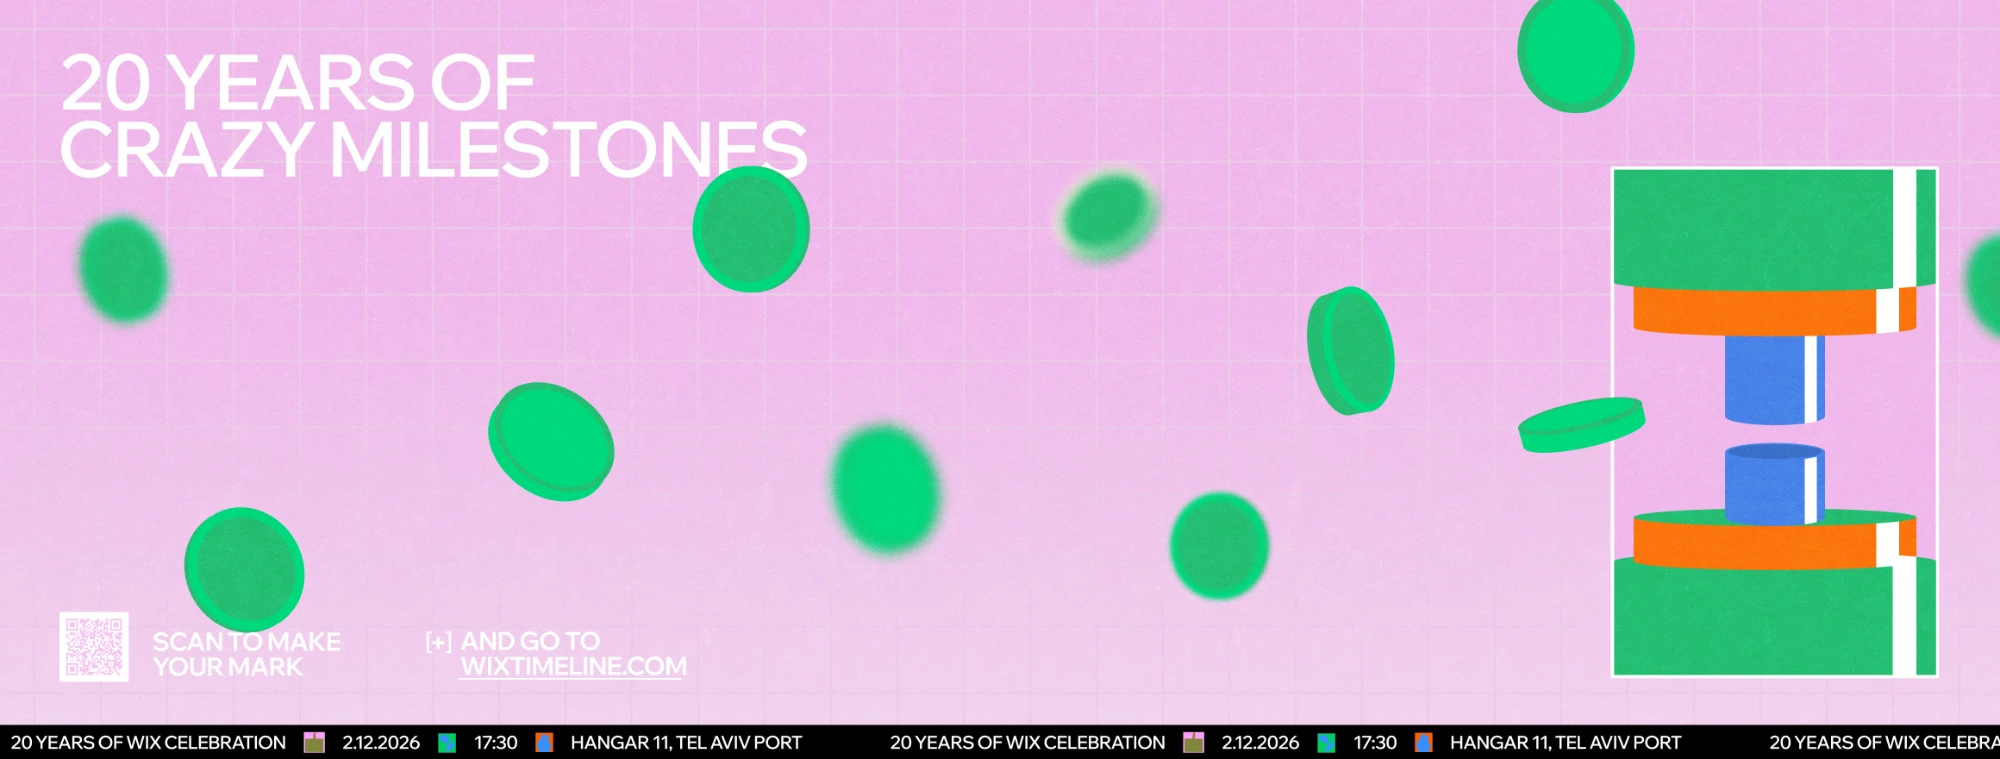
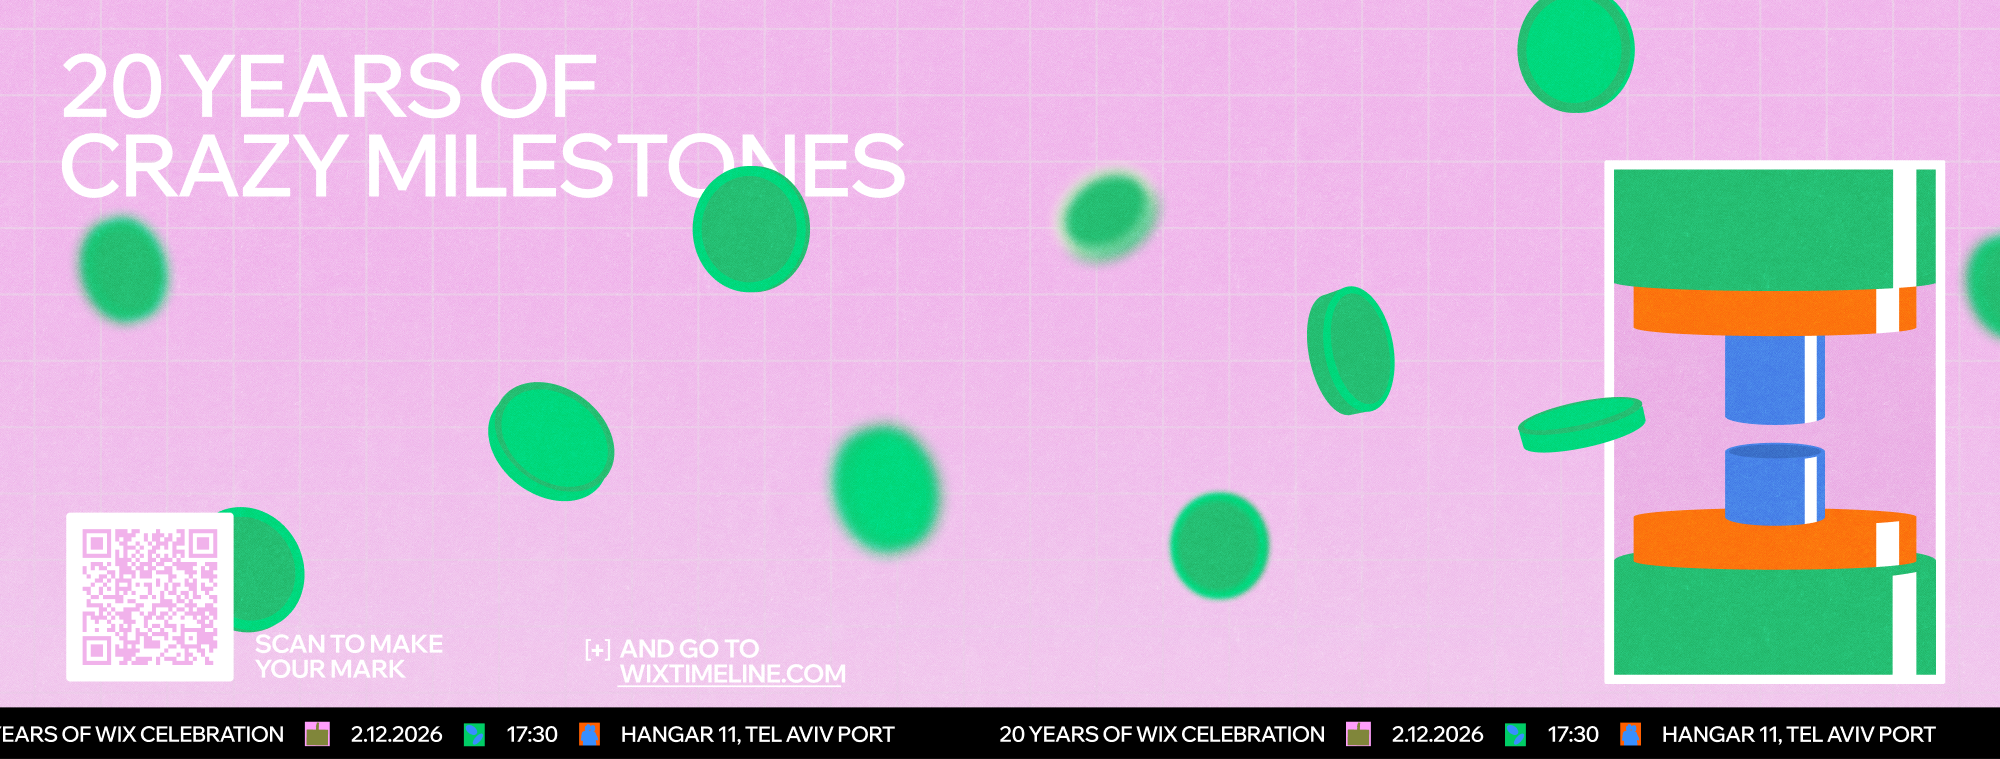
screen: match 25.11 Figma (title, big QR, frame, strip, grid)

diff --git a/screen/office.html b/screen/office.html
@@ -10,16 +10,16 @@
   #screen>*{position:absolute}
   iframe{border:0;display:block;background:transparent}
   .t{text-transform:uppercase;white-space:nowrap}
-  #title{font-weight:500;letter-spacing:-0.055em}
-  #go{font-weight:500;letter-spacing:-0.01em}
-  #go b{font-weight:500;position:absolute;letter-spacing:-0.05em}
+  #title{font-weight:600;letter-spacing:-0.0302em}
+  #go{font-weight:700;letter-spacing:-0.03em}
+  #go b{font-weight:500;position:absolute;letter-spacing:-0.03em}
   #go u{text-decoration-thickness:.07em;text-underline-offset:.12em}
   #qr{background:#fff;box-sizing:border-box}
   #qr .q{display:block;width:100%;height:100%;background:var(--qrc,#b84fae);-webkit-mask:url(upload-qr.svg) center/100% 100% no-repeat;mask:url(upload-qr.svg) center/100% 100% no-repeat}
-  #scan{font-weight:500;opacity:.92;letter-spacing:-0.01em}
+  #scan{font-weight:700;letter-spacing:-0.03em}
   #strip{background:#000;overflow:hidden;left:0}
   #strip .run{position:absolute;left:0;top:0;height:100%;display:flex;align-items:center;white-space:nowrap;will-change:transform;animation:run var(--dur) linear infinite}
-  #strip span{font-weight:600;text-transform:uppercase;letter-spacing:-0.01em}
+  #strip span{font-weight:600;text-transform:uppercase;letter-spacing:-0.03em}
   #strip i{display:inline-flex;gap:.35em;align-items:center}
   #strip svg{display:block}
   @keyframes run{from{transform:translateX(0)}to{transform:translateX(-50%)}}
@@ -63,9 +63,10 @@ const $=id=>document.getElementById(id), px=v=>v*s+'px';
 const scr=$('screen'); scr.style.width=W+'px'; scr.style.height=H+'px';
 const bg=$('bg'); bg.width=W; bg.height=H; drawBackdrop(bg.getContext('2d'),W,H);
 // the frame's faint grid (?grid = cell in reference px, ?gridop = strength)
-{ const x=bg.getContext('2d'), g=(+(Q.get('grid')||52))*s; x.strokeStyle=`rgba(255,255,255,${+(Q.get('gridop')??0.22)})`; x.lineWidth=Math.max(1,1.2*s); x.beginPath();
-  for(let gx=g*0.6; gx<W; gx+=g){ const v=Math.round(gx)+0.5; x.moveTo(v,0); x.lineTo(v,H); }
-  for(let gy=g*0.35; gy<H; gy+=g){ const v=Math.round(gy)+0.5; x.moveTo(0,v); x.lineTo(W,v); } x.stroke(); }
+{ const x=bg.getContext('2d'), g=(+(Q.get('grid')||66.38))*s;   // 2026-11-25 Figma: 154 px cells at 4640 = 66.38 ref, lines from x 34.5 / y 28.6
+  x.strokeStyle=`rgba(255,255,255,${+(Q.get('gridop')??0.22)})`; x.lineWidth=Math.max(1,1.2*s); x.beginPath();
+  for(let gx=34.5*s; gx<W; gx+=g){ const v=Math.round(gx)+0.5; x.moveTo(v,0); x.lineTo(v,H); }
+  for(let gy=28.6*s; gy<H; gy+=g){ const v=Math.round(gy)+0.5; x.moveTo(0,v); x.lineTo(W,v); } x.stroke(); }
 const mint=$('mint'), wall=$('wall');
 Object.assign(mint.style,{left:B.x+'px', top:B.y+'px'}); mint.width=Math.round(B.w); mint.height=Math.round(B.h);
 mint.src=`mint.html?panel&fw=${W}&fh=${H}${pass}`;
@@ -73,22 +74,23 @@ wall.style.left=wall.style.top='0'; wall.width=W; wall.height=H;
 wall.src=`index.html?embed&hole&w=${W}&h=${H}${pass}`;
 // type, placed in reference-frame px (2000 x 759)
 const place=(el,o)=>{ for(const [k,v] of Object.entries(o)) el.style[k]= typeof v==='number'? px(v) : v; };
-place($('go'),{left:426, top:629, fontSize:24.75, lineHeight:24.5}); $('go').querySelector('b').style.left='0'; $('go').querySelector('div').style.marginLeft=px(34);
-place($('title'),{left:59.5, top:50.5, fontSize:80.6, lineHeight:65.5});
-place($('qr'),{left:59.5, top:612, width:70, height:70, padding:5});
-place($('scan'),{left:153, top:629, fontSize:24.75, lineHeight:24.5});
+// 2026-11-25 Figma (big-screen-20-years 9640:6016): bigger title, big QR, bold small lines, taller strip
+place($('go'),{left:584.6, top:636.0, fontSize:25.12, lineHeight:25.12}); $('go').querySelector('b').style.left='0'; $('go').querySelector('div').style.marginLeft=px(35);
+place($('title'),{left:59.8, top:45.7, fontSize:86.75, lineHeight:79.65});
+place($('qr'),{left:66.25, top:512.6, width:167.4, height:168.9, padding:16.4});
+place($('scan'),{left:254.5, top:630.7, fontSize:25.12, lineHeight:25.12});
 // ?qr=0 hides the upload QR and its line (the QR opens the selfie upload page, brik-tools/people/upload-link.txt)
 if(Q.get('qr')==='0'){ $('qr').remove(); $('scan').remove(); }
-place($('strip'),{top:724, width:2000, height:35});
+place($('strip'),{top:707.3, width:2000, height:51.3});
 // the running strip: one set of items, written twice so it loops without a seam
 // the frame's eight little icons between the items (icons/*.svg), 20 ref px tall
-const IC=[['heart',213,180],['couple',163,180],['pieces',196,180],['ovals',163,180],['cake',253,190],['sun',187,187],['layers',236,152],['sign',196,190]];
-const ic=k=>{ const [n,w,h]=IC[k%IC.length]; return `<img src="icons/${n}.svg" alt="" style="height:${px(20)};width:${px(20*w/h)};display:block">`; };
+const IC=[['strip-1',57.62,56.69],['strip-2',48.29,53.07],['strip-3',48.19,53.11]];   // 2026-11-25 Figma: the same three icons in every group
+const ic=k=>{ const [n,w,h]=IC[k%IC.length]; return `<img src="icons/${n}.svg" alt="" style="height:${px(h*2000/4640)};width:${px(w*2000/4640)};display:block">`; };
 const TXT=['20 YEARS OF WIX CELEBRATION','2.12.2026','17:30','HANGAR 11, TEL AVIV PORT'];
 // one group = the 4 items with an icon between each, then a wide gap (no icon) before the next "20 YEARS"; 3 groups use the 8 icons in turn
 let one='', k=0; for(let g=0; g<3; g++) TXT.forEach((t,i)=>{ const last=i===TXT.length-1;
-  one+=`<span style="font-size:${px(20)};margin-right:${px(last? 120 : 18)};display:inline-flex;align-items:center">${t}</span>`;
-  if(!last) one+=`<span style="margin-right:${px(18)};display:inline-flex;align-items:center">${ic(k++)}</span>`; });
+  one+=`<span style="font-size:${px(21.43)};margin-right:${px(last? 136 : 20.9)};display:inline-flex;align-items:center">${t}</span>`;
+  if(!last) one+=`<span style="margin-right:${px(20.9)};display:inline-flex;align-items:center">${ic(k++)}</span>`; });
 const run=$('run'); run.innerHTML=one+one; run.style.setProperty('--dur', (+(Q.get('strip')||66))+'s');   // same speed as before for the longer lap
 // fine grain over everything, like the site
 const gr=$('grain'); gr.width=W; gr.height=H; gr.style.width=W+'px'; gr.style.height=H+'px';
@@ -111,7 +113,7 @@ const TDEF={n:110, speed:1, ap:0.3, qr:0.6}, tune=$('tune');
 let T=(()=>{ try{ return {...TDEF, ...JSON.parse(localStorage.getItem('wix20-tune')||'{}')}; }catch(e){ return {...TDEF}; } })();
 const TI={n:$('tn'), speed:$('ts'), ap:$('ta'), qr:$('tq')}, TV={n:$('tnv'), speed:$('tsv'), ap:$('tav'), qr:$('tqv')};
 // QR: 0 = the frame's own light pink, 1 = near black (0.6 = the deep pink that scans well)
-const QR0=[230,196,226], QR1=[58,10,53];
+const QR0=[241,178,235], QR1=[58,10,53];   // 0 = the Figma QR pink (#f1b2eb)
 function qrColor(){ const t=+T.qr; document.documentElement.style.setProperty('--qrc', 'rgb('+QR0.map((a,i)=>Math.round(a+(QR1[i]-a)*t)).join(',')+')'); }
 function tuneDraw(){ for(const k in TI){ TI[k].value=T[k]; TV[k].textContent=k==='n'? T[k] : (+T[k]).toFixed(2); } }
 function tuneSend(){ qrColor(); try{ localStorage.setItem('wix20-tune', JSON.stringify(T)); }catch(e){} wall.contentWindow.postMessage({type:'tune', ...T},'*'); }

diff --git a/screen/mint.html b/screen/mint.html
@@ -15,7 +15,7 @@
 <script type="module">
 // v2 mint: a flat, graphic press (drawn in 2D, no camera, no blank fed in). Each cycle the press comes down, lifts,
 // and the struck coin is there on the lower punch; the coin itself is drawn by the wall (one 3D coin, from the die out into the wall).
-import { C, colorFor, drawBackdrop, layout, PRESS, BOX, OX } from './v2-style.js';
+import { C, colorFor, drawBackdrop, layout, PRESS, BOX, BOX_LINE, OX } from './v2-style.js';
 import { MILESTONES } from './milestones.js';
 const Q=new URLSearchParams(location.search), PANEL=Q.has('panel');
 if(PANEL) document.body.classList.add('panel');
@@ -61,7 +61,7 @@ function draw(t){
   x.setTransform(1,0,0,1,0,0);
   drawBackdrop(x, cv.width, cv.height, B.x, B.y, FH);   // opaque: the wall's coins never show through the box
   x.setTransform(s,0,0,s,-B.x,-B.y);
-  const ln=3; x.save(); x.beginPath(); x.rect(BOX.x+ln,BOX.y+ln,BOX.w-2*ln,BOX.h-2*ln); x.clip();
+  const ln=BOX_LINE; x.save(); x.beginPath(); x.rect(BOX.x+ln,BOX.y+ln,BOX.w-2*ln,BOX.h-2*ln); x.clip();
   for(const p of LOW) part(p);
   const dy=ramY(t); for(const p of UP) part(p,dy);
   impact(t);

diff --git a/screen/v2-style.js b/screen/v2-style.js
@@ -25,11 +25,12 @@ export function drawBackdrop(x, W, H, ox = 0, oy = 0, FH = H) {
 }
 
 // the press box: on the right since the 2026-11-24 frame (it was at x 47; everything inside moves with it)
-export const BOX = { x: 1612, y: 167, w: 327, h: 510 }, OX = BOX.x - 47;
+// 2026-11-25 Figma: a thicker white frame (9.7 ref px), grown outward; the press inside stays put (OX fixed)
+export const BOX = { x: 1604.4, y: 160.2, w: 341.9, h: 523.8 }, BOX_LINE = 9.7, OX = 1565;
 // layout of the screen (in screen px for a W x H screen)
 export function layout(W, H) {
   const s = W / REF_W;
-  const box = { x: BOX.x * s, y: BOX.y * s, w: BOX.w * s, h: BOX.h * s, line: 3 * s };   // the press frame (outer edge of the white line)
+  const box = { x: BOX.x * s, y: BOX.y * s, w: BOX.w * s, h: BOX.h * s, line: BOX_LINE * s };   // the press frame (outer edge of the white line)
   // the struck coin sits on the lower punch: its top face centre, and the coin radius (= punch radius)
   const die = { x: (208 + OX) * s, y: 452 * s, r: 48 * s, coinR: 48 * s * PRESS.coinK };
   return { s, box, die };
